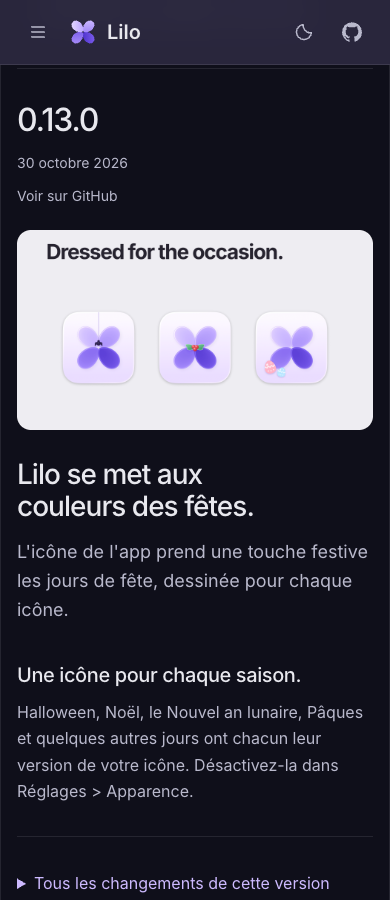
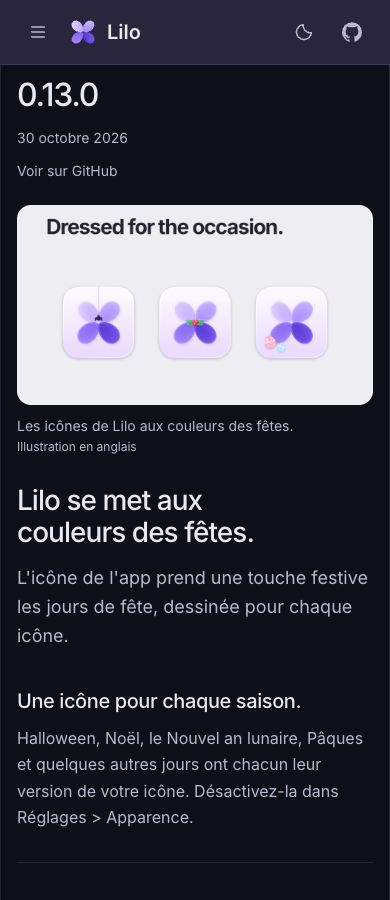
fix(changelog): label English media with localized captions

diff --git a/lilo-ui/src/components/whatsnew/ReleaseMedia.svelte b/lilo-ui/src/components/whatsnew/ReleaseMedia.svelte
@@ -1,8 +1,12 @@
 <script lang="ts">
   import { onMount } from "svelte";
   import type { ReleaseMedia } from "../../../../release-media/catalog";
+  import { getLocale, t } from "../../lib/i18n/state.svelte";
 
   let { media, label }: { media: ReleaseMedia; label: string } = $props();
+  const captionId = $props.id();
+  const locale = $derived(getLocale());
+  const caption = $derived(locale === "en" || locale === "fr" ? media.alt[locale] : label);
   let video: HTMLVideoElement | undefined = $state();
 
   onMount(() => {
@@ -16,19 +20,25 @@
   });
 </script>
 
-<figure class="release-media">
+<figure class="release-media" lang={getLocale()}>
   {#if media.kind === "video"}
-    <video bind:this={video} controls playsinline preload="none" poster={media.poster} width={media.width} height={media.height} aria-label={label}>
+    <video bind:this={video} controls playsinline preload="none" poster={media.poster} width={media.width} height={media.height} lang="en" aria-labelledby={captionId}>
       <source src={media.video} type="video/mp4" />
-      <a href={media.video}>{label}</a>
+      <a href={media.video} lang={getLocale()}>{caption}</a>
     </video>
   {:else}
-    <img src={media.poster} width={media.width} height={media.height} alt={label} decoding="async" />
+    <img src={media.poster} width={media.width} height={media.height} alt={media.alt.en} lang="en" aria-labelledby={captionId} decoding="async" />
   {/if}
+  <figcaption id={captionId} lang={getLocale()}>
+    <span>{caption}</span>
+    <span class="media-language">{t("whatsNew.mediaLanguage")}</span>
+  </figcaption>
 </figure>
 
 <style>
   .release-media { margin: 0 0 var(--space-24); }
   video, img { display: block; width: 100%; height: auto; aspect-ratio: 16 / 9; border-radius: var(--radius-lg); background: var(--bg-primary); }
   video:focus-visible { outline: 2px solid var(--accent); outline-offset: 3px; }
+  figcaption { margin-top: var(--space-8); color: var(--text-secondary); font-size: var(--font-size-sm); line-height: 1.5; }
+  .media-language { display: block; margin-top: var(--space-4); font-size: var(--font-size-xs); }
 </style>

diff --git a/lilo-ui/e2e/whatsNew.spec.ts b/lilo-ui/e2e/whatsNew.spec.ts
@@ -2,6 +2,7 @@ import { expect, test, type Page } from "@playwright/test";
 import { bootChrome, type FakeHostWorld } from "./fakeHost";
 import { initialWorld } from "./fixtures";
 import type { ReleaseNotes } from "../src/components/whatsnew/releaseNotes";
+import { mediaForRelease } from "../../release-media/catalog";
 
 const release: ReleaseNotes = {
 	version: "0.6.0", date: "2026-01-15",
@@ -35,6 +36,20 @@ async function bootReleaseChrome(page: Page, world: FakeHostWorld = initialWorld
 async function openWhatsNew(page: Page, automatic = false, version = "0.6.0") {
 	await page.evaluate(({ automatic, version }) => window.__lilo!.receive({ event: "openWhatsNew", automatic, version }), { automatic, version });
 }
+
+test("release media keeps its English illustration labeled in the app language", async ({ page }) => {
+	await bootReleaseChrome(page, initialWorld(), undefined, { ...release, media: mediaForRelease(release.version) });
+	await page.evaluate(() => window.__lilo!.receive({ event: "settingsLoaded", settings: { locale: "fr" } }));
+	await openWhatsNew(page);
+	const dialog = page.getByRole("dialog");
+	const caption = dialog.locator("figcaption");
+	await expect(caption).toBeVisible();
+	await expect(caption).toHaveAttribute("lang", "fr");
+	await expect(caption).toHaveText("Les messages non lus sur les onglets et favoris. Illustration en anglais");
+	const illustration = dialog.locator("img");
+	await expect(illustration).toHaveAttribute("lang", "en");
+	await expect(illustration).toHaveAccessibleName("Les messages non lus sur les onglets et favoris. Illustration en anglais");
+});
 
 test("the sheet presents installed highlights, all changes and one acknowledgment", async ({ page }) => {
 	const resourceReads = await bootReleaseChrome(page);

diff --git a/site/tests/release-media.spec.ts b/site/tests/release-media.spec.ts
@@ -40,6 +40,26 @@ for (const lang of ["en", "fr"]) {
       const release = page.locator('[id="v0.11.0"]');
       const video = release.locator("video");
       await expect(video).toBeVisible();
+      await expect(video).toHaveAttribute("lang", "en");
+      const caption = release.locator("figcaption");
+      await expect(caption).toBeVisible();
+      await expect(caption).toHaveAttribute("lang", lang);
+
+      const description =
+        lang === "fr"
+          ? "Choisissez du verre, du grain ou de l’uni pour chaque Space."
+          : "Choose glass, grain or solid for each Space.";
+
+      const languageLabel =
+        lang === "fr"
+          ? "Illustration en anglais"
+          : "English-language illustration";
+
+      await expect(caption).toContainText(description);
+      await expect(caption).toContainText(languageLabel);
+      await expect(video).toHaveAccessibleName(
+        `${description} ${languageLabel}`
+      );
       expect(
         await video.evaluate((v: HTMLVideoElement) => ({
           controls: v.controls,
@@ -88,6 +108,8 @@ for (const lang of ["en", "fr"]) {
       const holiday = page.locator('[id="v0.13.0"] .release-media');
       await expect(holiday.locator("video")).toHaveCount(0);
       await expect(holiday.locator("img")).toBeVisible();
+      await expect(holiday.locator("img")).toHaveAttribute("lang", "en");
+      await expect(holiday.locator("figcaption")).toBeVisible();
       expect(
         await holiday
           .locator("img")

diff --git a/site/src/lib/i18n.ts b/site/src/lib/i18n.ts
@@ -125,6 +125,7 @@ export const copy = {
     reactDevtoolsDescription: "Inspect components",
     releaseAllChanges: "All changes in this release",
     releaseLink: "View on GitHub",
+    releaseMediaLanguage: "English-language illustration",
     releases: "Release notes",
     reportBug: "Report a bug",
     resources: "Resources",
@@ -262,6 +263,7 @@ export const copy = {
     reactDevtoolsDescription: "Inspecter les composants",
     releaseAllChanges: "Tous les changements de cette version",
     releaseLink: "Voir sur GitHub",
+    releaseMediaLanguage: "Illustration en anglais",
     releases: "Notes de version",
     reportBug: "Signaler un bug",
     resources: "Ressources",

diff --git a/site/tests/test_site.py b/site/tests/test_site.py
@@ -177,7 +177,14 @@ class SiteTests(unittest.TestCase):
                 self.assertTrue(all(node.attrs.get("lang") == language for node in highlights))
                 capture = next(node for node in nodes(release) if "release-media" in node.classes)
                 player = next(node for node in nodes(capture) if node.tag == "video")
-                self.assertTrue(player.attrs.get("aria-label"))
+                caption = next(node for node in nodes(capture) if node.tag == "figcaption")
+                self.assertEqual(player.attrs.get("aria-labelledby"), caption.attrs["id"])
+                self.assertEqual(player.attrs.get("lang"), "en")
+                self.assertEqual(caption.attrs.get("lang"), language)
+                self.assertTrue(inline_text(caption).strip())
+                caption_text = " ".join(inline_text(caption).split())
+                markdown = (DIST / page).with_suffix(".md").read_text()
+                self.assertIn("\n\n" + caption_text + "\n", markdown)
                 self.assertEqual(player.attrs.get("preload"), "none")
                 disclosure = next(node for node in nodes(release) if node.tag == "details")
                 self.assertNotIn("open", disclosure.attrs)

diff --git a/site/generate.py b/site/generate.py
@@ -10,7 +10,7 @@ SITE = "https://getlilo.app"
 DIST = Path(__file__).resolve().parent / "dist"
 
 VOID = {"meta", "link", "br", "img", "input", "hr", "source"}
-BLOCK = {"main", "section", "article", "header", "div", "p", "h1", "h2", "h3", "h4", "details", "summary", "table", "footer", "ul", "ol", "li", "time"}
+BLOCK = {"main", "section", "article", "header", "div", "p", "h1", "h2", "h3", "h4", "details", "summary", "table", "footer", "ul", "ol", "li", "time", "figure", "figcaption"}
 # Interactive mockups and decoration: their text is illustration, not page content.
 SKIP_TAGS = {"script", "style", "svg", "button", "head", "nav"}
 SKIP_CLASSES = {"window", "store", "termcard", "tag", "mark", "nav", "skip-link"}
